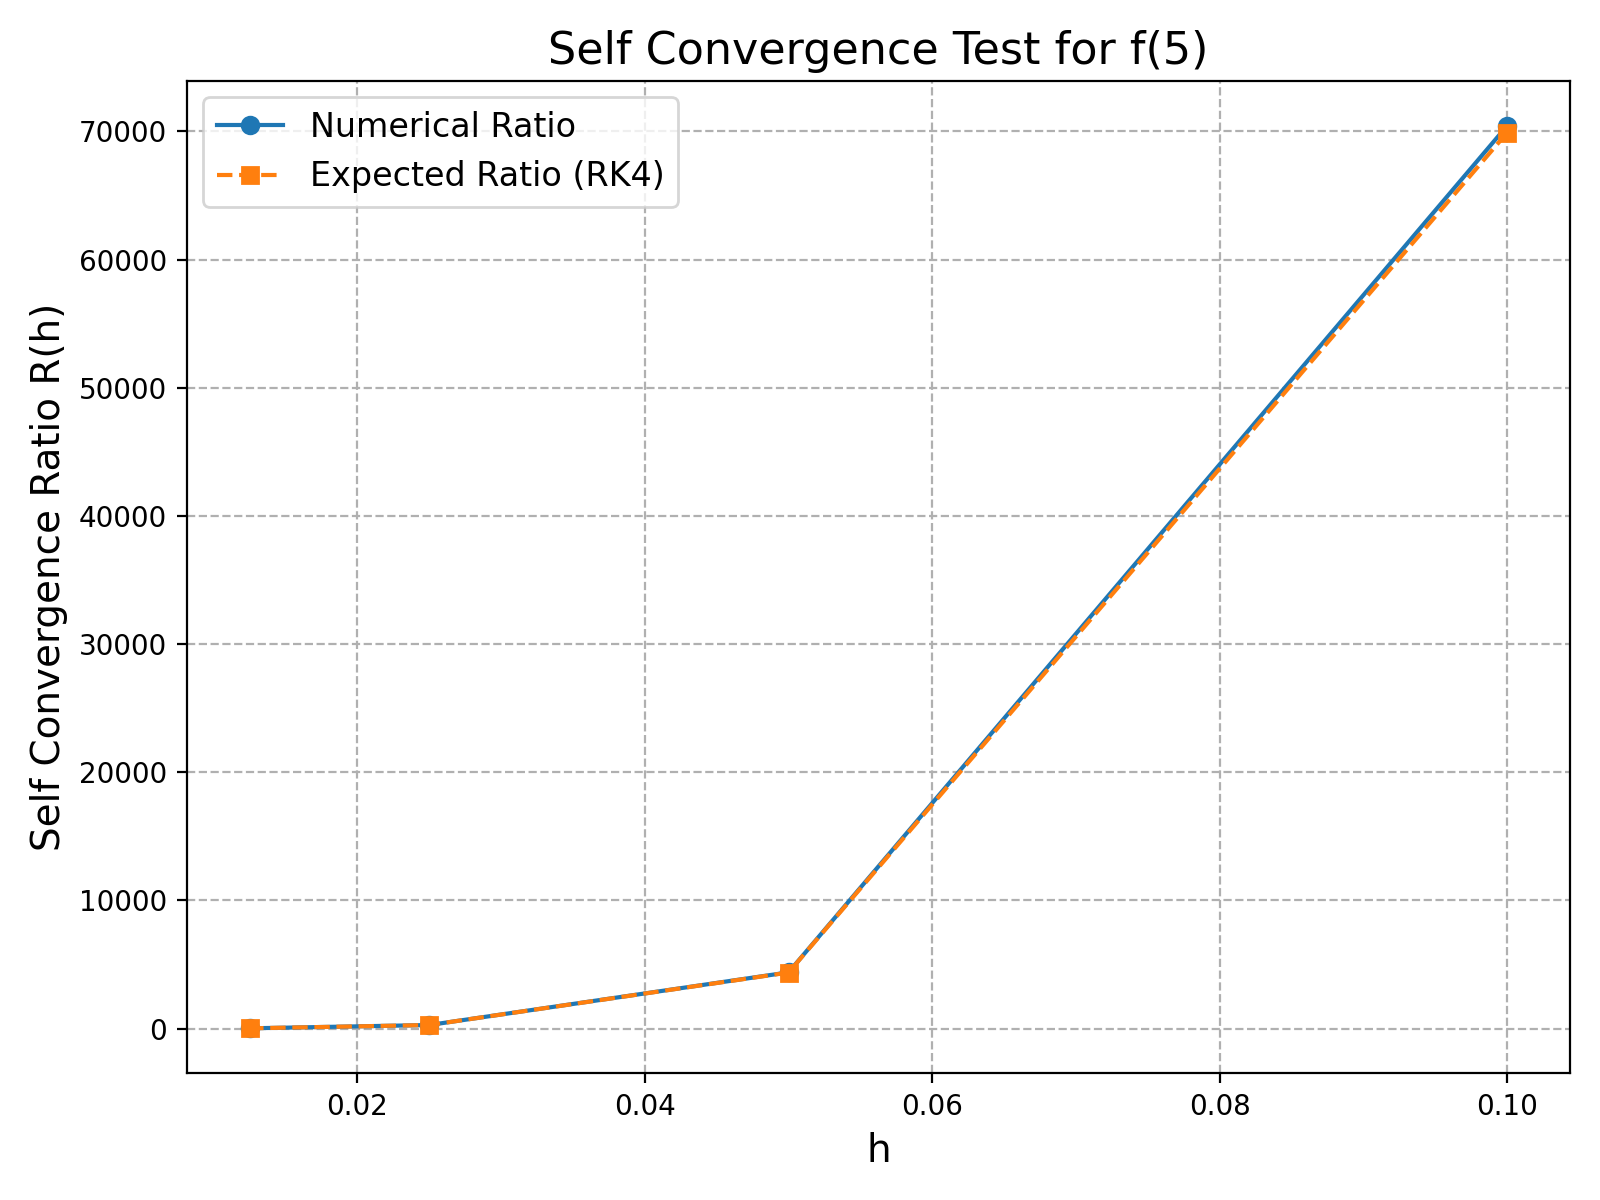
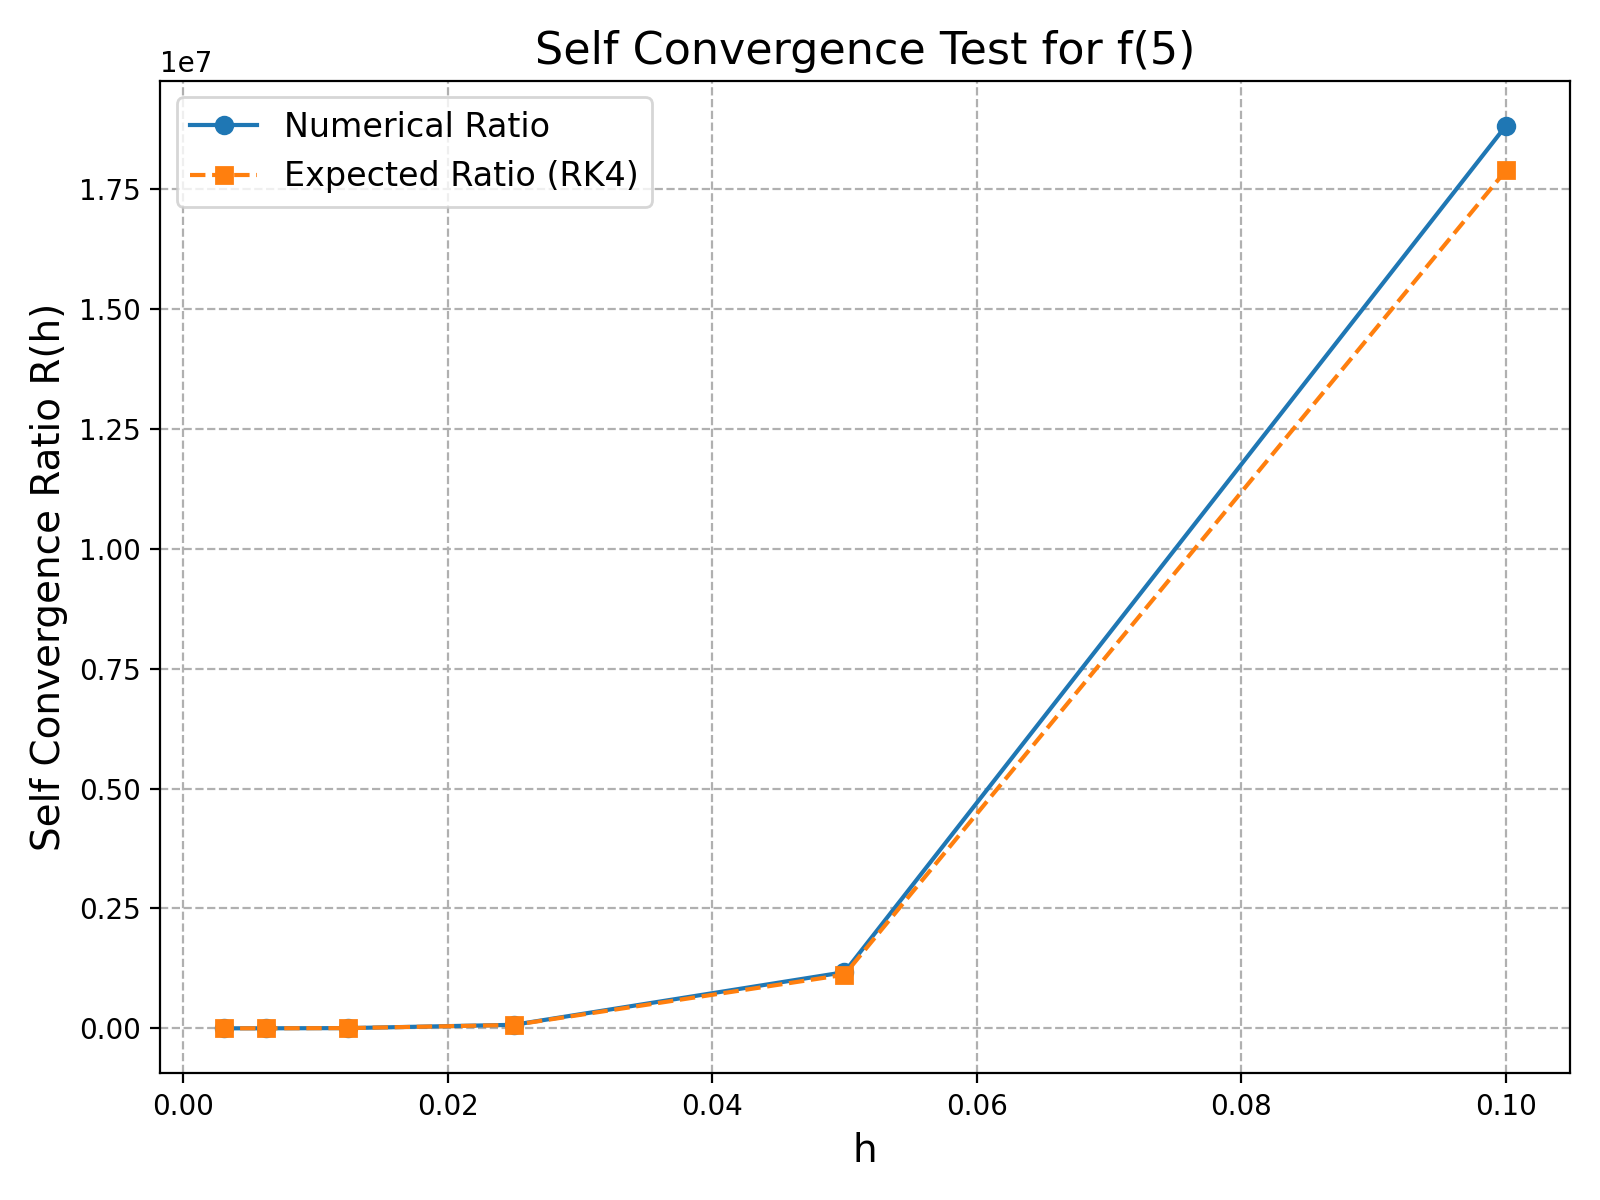
Changed N values for self convergence

diff --git a/f_self_convergence.C b/f_self_convergence.C
@@ -19,9 +19,9 @@ int main(){
     double X_initial = 0.0, X_final = 5.0;
 
     // Choose multiple N values
-    // I used the same values as the hw
-    int N_values[] = {50, 100, 200, 400, 800, 1600};
-    int number_of_cases = 6;
+    // I used the same values as the C_convergence part
+    int N_values[] = {50, 100, 200, 400, 800, 1600, 3200, 6400};
+    int number_of_cases = 8;
 
     // Create a file to write the values to
     ofstream outfile("data_files/f_self_convergence.txt");
